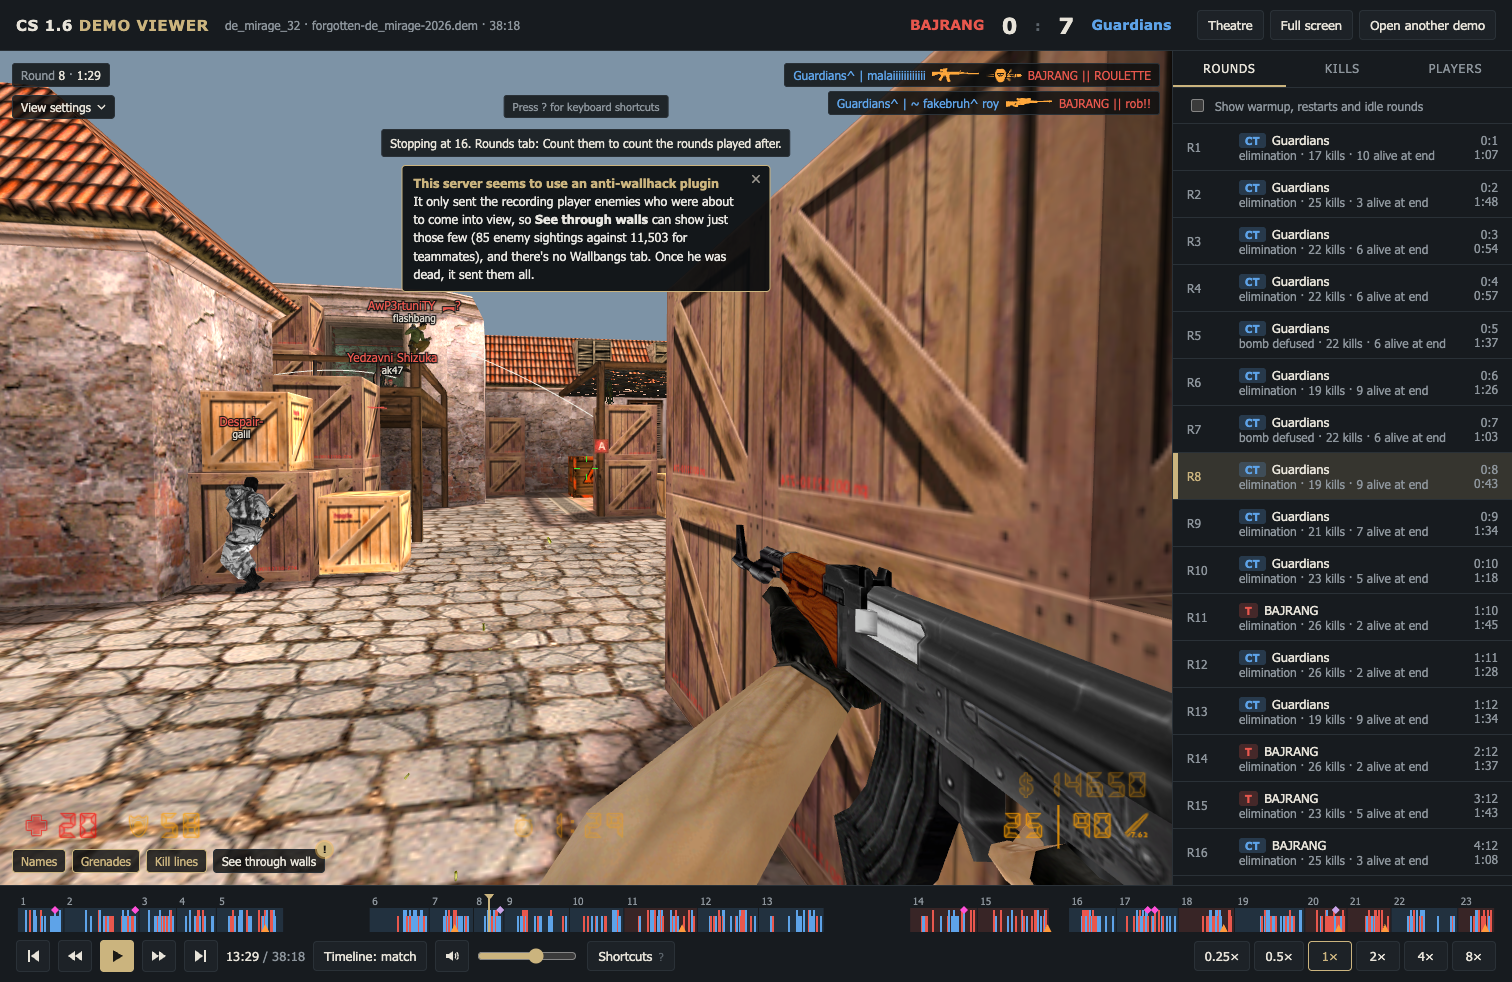
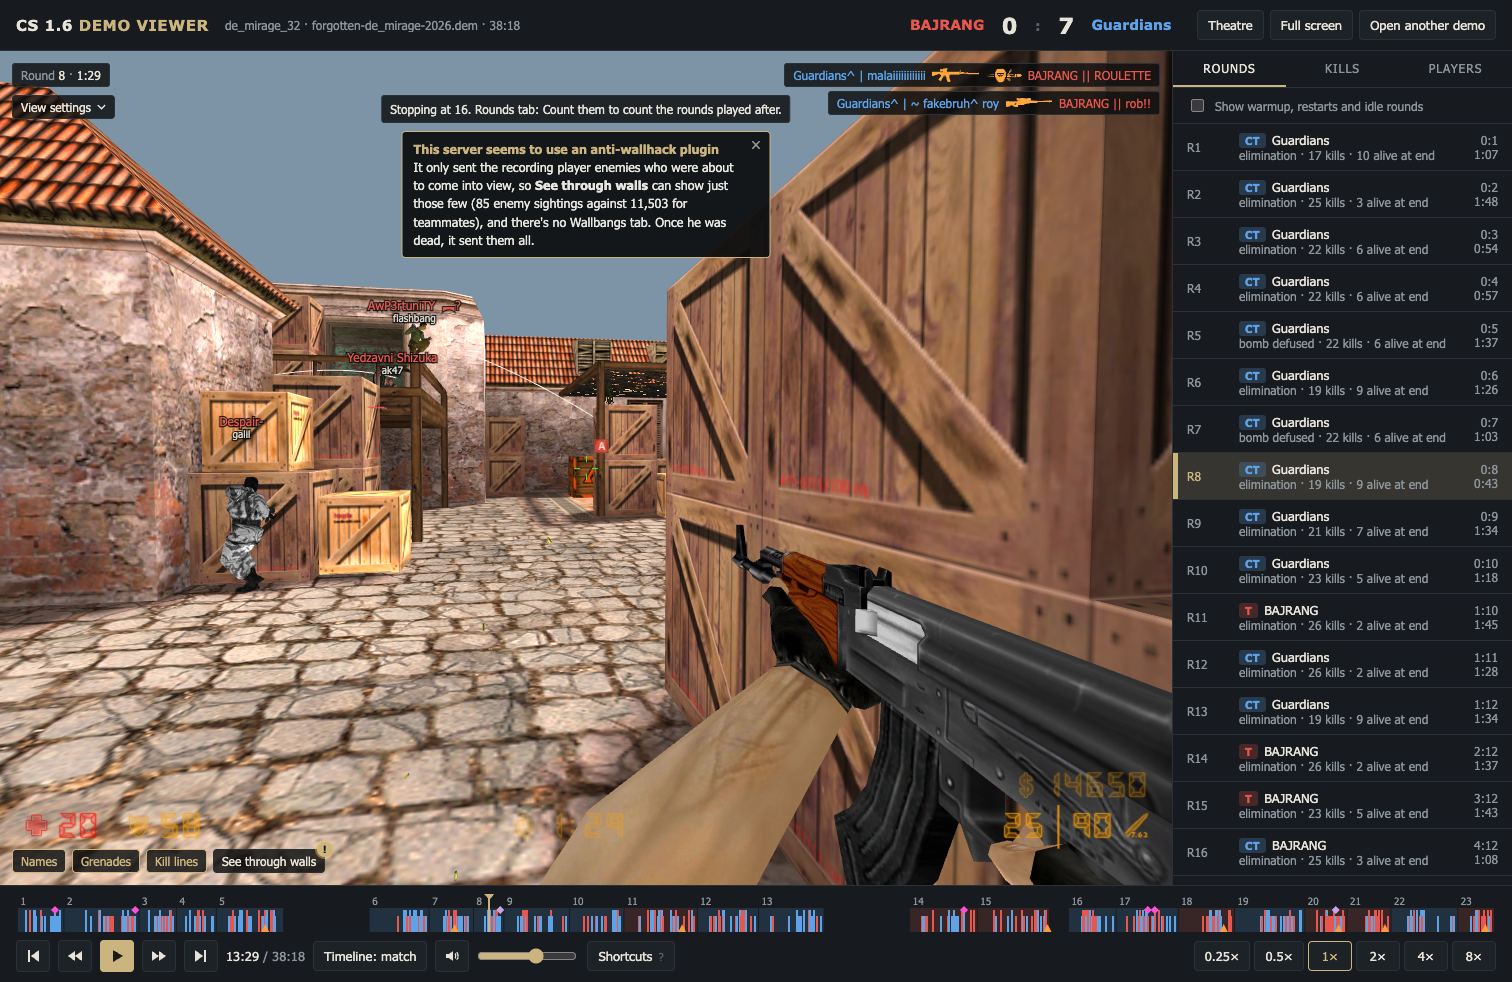
screenshots: retake 10, 11 and 13, the shortcuts line hidden in POV mode

Changed region(s): [[0.2487, 0.0916, 0.5284, 0.3055]]

diff --git a/README.md b/README.md
@@ -13,7 +13,7 @@ From the pull request's build, headless Chromium with SwiftShader, a 1512x982 wi
 - `07-plant-bar-spectating-*`: R11 0:28, dead, watching ~br0nzE^ plant in first person: the bar at 73%, picked up at 59% from BarTime2 at 0:29.
 - `08-tab-held-*`: R3 1:10: his Tab scoreboard, open by itself while he held Tab, with "He held Tab here".
 - `09-kills-tab-*`: R7 1:31, the Kills tab: his kills and deaths for the whole match by round (18 kills, 23 deaths), R7 highlighted.
-- `10-notices-top-*`: R8 1:29: "Press ? for keyboard shortcuts" and the "Stopping at 16" notice at the top middle, the HUD's corners clear. Retaken after the notices were made to step down past the kill feed.
-- `11-note-from-mark-*`: the same moment after a click on the !: the anti-wallhack note at the top middle under the notices, with its ×; his health and armour stay in view. Retaken: with the note open the column reached within 8 px of the feed's rows, so it steps down below them.
+- `10-notices-top-*`: R8 1:29: the "Stopping at 16" notice at the top middle, the HUD's corners clear; no shortcuts line in **POV mode** (Sujan, 11 Nov 2026, on #60). Retaken twice: after the notices were made to step down past the kill feed, and after the shortcuts line was hidden.
+- `11-note-from-mark-*`: the same moment after a click on the !: the anti-wallhack note at the top middle under the notices, with its ×; his health and armour stay in view. Retaken after the shortcuts line was hidden: the notice starts at the top, the note under it, clear of the feed's rows.
 - `12-hltv-view-settings-*`: Na`Vi vs FX, Dust2, SEC 2011 final: **View settings** with no **POV mode** row or heading, and the 2D, 3D and 3D + radar switch and **Reset view** as before.
-- `13-notices-past-the-feed-1280x720-*`: the worst case of the notices against the kill feed (Sujan, 11 Nov 2026): R17 1:13, the feed's 5 rows at their widest, a 1280x720 window, "Stopping at 16" and the note open: the column steps down below the feed; with the note open it reaches the middle of the view.
+- `13-notices-past-the-feed-1280x720-*`: the worst case of the notices against the kill feed (Sujan, 11 Nov 2026): R17 1:13, the feed's 5 rows at their widest, a 1280x720 window, "Stopping at 16" and the note open: the column steps down below the feed; with the note open it reaches the middle of the view. Retaken after the shortcuts line was hidden.
